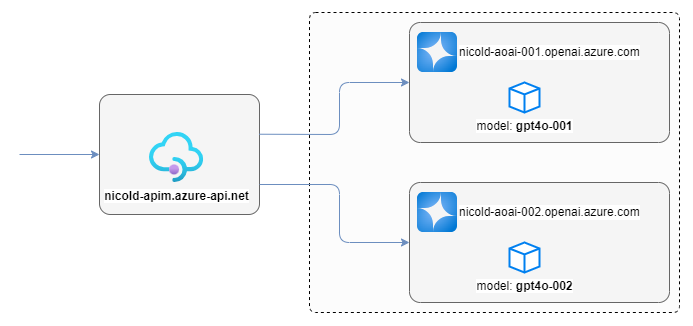
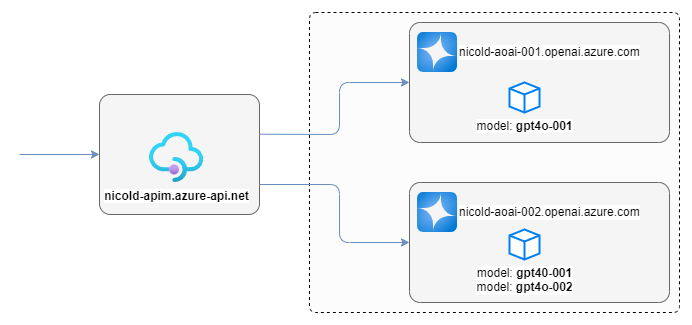
aoai recepes for apim

diff --git a/_drafts/apim/00-organize-aoai-instances-with-apim.md b/_drafts/apim/00-organize-aoai-instances-with-apim.md
@@ -32,13 +32,13 @@ in questi post ci focalizzeremo sulla configurazione delle policy e di implement
 Il laboratorio su cui lavoró prevede le seguenti risorse:
 
 * Azure API Management service (developer SKU) enterpriseapim
-* 2 x Azure OpenAI service (S0 SKU) apimaoai01 and apimaoai02
+* 2 x Azure OpenAI service (S0 SKU) `apimaoai01` and `apimaoai02`
 
 come mostrato nello schema seguente:
 
 ![architecture](../../assets/post/2025/apim-aoai/00-architecture.png)
 
-# 01 Add Azure Open AI as backend resource
+# Add Azure Open AI as backend resource
 
 Go to API Management services > `nicold-apim` > Backends > Add
 * Name: `apim-001`
@@ -63,7 +63,7 @@ Go to API Management services > `nicold-apim` > Backends > Add
 Here the result:
 ![backend resorces added](../../assets/post/2025/apim-aoai/01-add-backend-resources.png)
 
-# 02 show apim-001 endpoint as root API
+# Show apim-001 endpoint as root API
 
 Go to Azure Portal > API Management Sevices > `nicold-apim` > API > Create form Azure Resources > Azure OpenAI Service
 * Azure OpenAI instance: `nicold-aoai-001`
@@ -84,7 +84,7 @@ To test this endpoint go to: API Management Services > `nicold-apim` > APIs > Al
 * request body: `{"messages": [{ "role": "system","content": "You are a helpful assistant."},{ "role": "user", "content": "Tell me a joke!"} ]}`
 * click: [SEND]
 
-here a script to test this configuration:
+here also a powershell script to test this configuration:
 
 ```
 $openai = @{
@@ -108,13 +108,18 @@ $headers = [ordered]@{
 # Send a request to generate an answer
 $url = "$($openai.api_base)/deployments/$($openai.name)/chat/completions?api-version=$($openai.api_version)"
 
-$response = IRM -Uri $url -Headers $headers -Body $body -Method Post -ContentType 'application/json'
-$response.choices.message.content
+$response = Invoke-WebRequest -Uri $url -Headers $headers -Body $body -Method Post -ContentType 'application/json'
 
+# Show response headers
+$response.headers
+$responseObj = ConvertFrom-Json $response.content
+
+# Show response body
+$responseObj.choices.message.content
 ```
 
 # Implement throttling
-The following policy limits the access at 10 requests per minute. Paste the xml in: API Management Service > 
+The following policy limits the access **at 10 requests per minute**. Paste the xml in: API Management Service > 
 `nicold-apim` > APIs > All APIs > `/` > all operations > inbound processing > policies (code editor)
 
 ```
@@ -137,18 +142,102 @@ The following policy limits the access at 10 requests per minute. Paste the xml 
 
 ```
 
-to limit at 2 calls **per IP** in 60 seconds, use the following rate-limit xml:
+To limit at 2 calls **per IP** in 60 seconds, use the following rate-limit xml:
 ```
 <rate-limit-by-key calls="2" renewal-period="60" counter-key="@(context.Request.IpAddress)" />
 ```
 
-to limit at 2 calls per API KEY in 60 seconds, use the following rate-limit xml:
+To limit at 2 calls per API KEY in 60 seconds, use the following rate-limit xml:
 ```
 <rate-limit-by-key calls="2" renewal-period="60" counter-key="@(context.Request.Headers.GetValueOrDefault("api-key"))" />
 ```
 
+# Show in a Response header (_aoai-origin_) the host of the OpenAI API Called
+
+Add the following XML in the **outbound** policy: 
+
+```
+<outbound>
+    <base />
+    <set-header name="aoai-origin" exists-action="override">
+        <value>@(context.Request.Url.Host)</value>
+    </set-header>
+</outbound>
+```
+
+# Round robin calls between 2 instances of Open AI
+
+Use the following **inbound** policy:
+
+```
+<inbound>
+    <base />
+    <cache-lookup-value key="backend-rr" variable-name="backend-rr" />
+    <choose>
+        <when condition="@(!context.Variables.ContainsKey("backend-rr"))">
+            <set-variable name="backend-rr" value="0" />
+            <cache-store-value key="backend-rr" value="0" duration="100" />
+        </when>
+    </choose>
+    <choose>
+        <when condition="@(Convert.ToInt32(context.Variables["backend-rr"]) == 0)">
+            <set-backend-service backend-id="apim-001" />
+            <set-variable name="backend-rr" value="1" />
+            <cache-store-value key="backend-rr" value="1" duration="100" />
+        </when>
+        <otherwise>
+            <set-backend-service backend-id="apim-002" />
+            <set-variable name="backend-rr" value="0" />
+            <cache-store-value key="backend-rr" value="0" duration="100" />
+        </otherwise>
+    </choose>
+</inbound>
+```
+> 💥In a round robin scenario, both open AI instances must have same deployments
+
+# Fallback on a second openAI instance for 30 secs. If the first send a 4xx error
+
+TODEBUG!!!
 
 
+<policies>
+    <inbound>
+        <base />
+        <cache-lookup-value key="useSecondaryBackend" variable-name="useSecondaryBackend" />
+        <choose>
+            <when condition="@(context.Variables["useSecondaryBackend"] != null)">
+                <set-backend-service backend-id="apim-002" />
+            </when>
+            <otherwise>
+                <set-backend-service backend-id="apim-001" />
+            </otherwise>
+        </choose>
+    </inbound>
+    <backend>
+        <base />
+    </backend>
+    <outbound>
+        <base />
+    </outbound>
+    <on-error>
+        <base />
+        <set-header name="aoai-origin" exists-action="override">
+            <value>@(context.Request.Url.Host)</value>
+        </set-header>
+        <choose>
+            <when condition="@(context.Response.StatusCode >= 400 && context.Response.StatusCode < 500)">
+				<set-variable name="useSecondaryBackend" value="true" />
+                <cache-store-value key="useSecondaryBackend" value="true" duration="60" />
+            </when>
+        </choose>
+    </on-error>
+</policies>
+
+
+
+
+
+--------------------------
 
 * Azure APIM to scale AOAI - https://github.com/Azure/aoai-apim 
 * Manage Azure OpenAI using APIM - https://github.com/microsoft/AzureOpenAI-with-APIM

diff --git a/_drafts/ai-local-playground/00-ai-local-playground-w11.md b/_drafts/ai-local-playground/00-ai-local-playground-w11.md
@@ -1,0 +1,27 @@
+---
+title: Setup a local ai playground on your W11 machine
+date: 2025-01-01 10:00
+tags: [Azure OpenAI ]
+excerpt: ""
+
+header:
+  overlay_image: https://live.staticflickr.com/65535/52755090506_6cf0808a3c_h.jpg
+  caption: "Photo credit: [**nicola since 1972**](https://www.flickr.com/photos/15216811@N06/52755090506)"
+---
+
+The AI local playground: in this blog post I show how to configure your W11 machine
+ to start experimenting with the most common artificial intelligence APIs
+using Visual Studio Code, Python, and Jupyter Notebooks.
+
+Starting from a clean Windows 11, the components to install and configure are the following:
+
+* Windows Subsystem for Linux: It is a compatibility layer for running Linux binary executables natively on Windows 11. WSL allows developers to use a Linux environment, including most command-line tools, utilities, and applications, directly on Windows, without the overhead of a traditional virtual machine or dual-boot setup.
+* Conda Python virtual environment: An environment created using the Conda package manager, which can manage dependencies and packages for Python and other languages.  
+  > A Python environment is a context in which Python code is executed. It includes the Python interpreter and a set of installed packages and dependencies.
+* Visual Studio Code: Visual Studio Code (VS Code) is a free, open-source code editor developed by Microsoft. It is available for Windows, macOS, and Linux. 
+
+once these components are installed, I will show a pattern to use for experimenting with the following APIs:
+
+* Azure OpenAI service (chat, completition)
+
+
